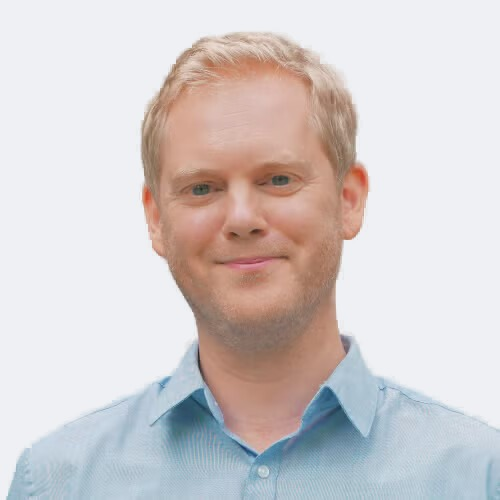
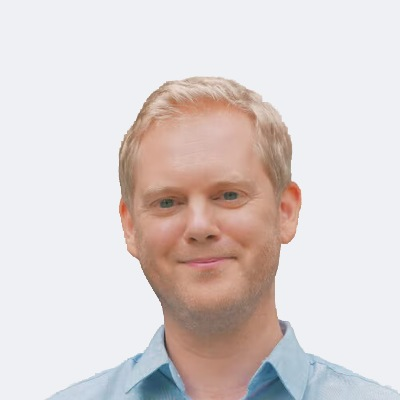
Add files via upload

diff --git a/assets/css/style.css b/assets/css/style.css
@@ -142,12 +142,9 @@
   .person .info{display:flex;flex-direction:column;flex:1}
   .person .photo{
     position:relative;width:104px;height:104px;margin:0 auto 13px;
-    border-radius:50%;overflow:hidden;background:var(--navy-deep);
-    -webkit-mask-image:radial-gradient(circle at 50% 50%, #000 98.5%, transparent 100%);
-    mask-image:radial-gradient(circle at 50% 50%, #000 98.5%, transparent 100%);
-    transform:translateZ(0);
+    border-radius:50%;overflow:hidden;background:#EEF0F3;
+    border:1px solid #C9D3DE;
   }
-  .person .photo img{border-radius:50%}
   .person .photo img{position:absolute;inset:0;width:100%;height:100%;object-fit:cover;border-radius:50%}
   .person .photo .mono{
     position:absolute;inset:0;display:flex;align-items:center;justify-content:center;
